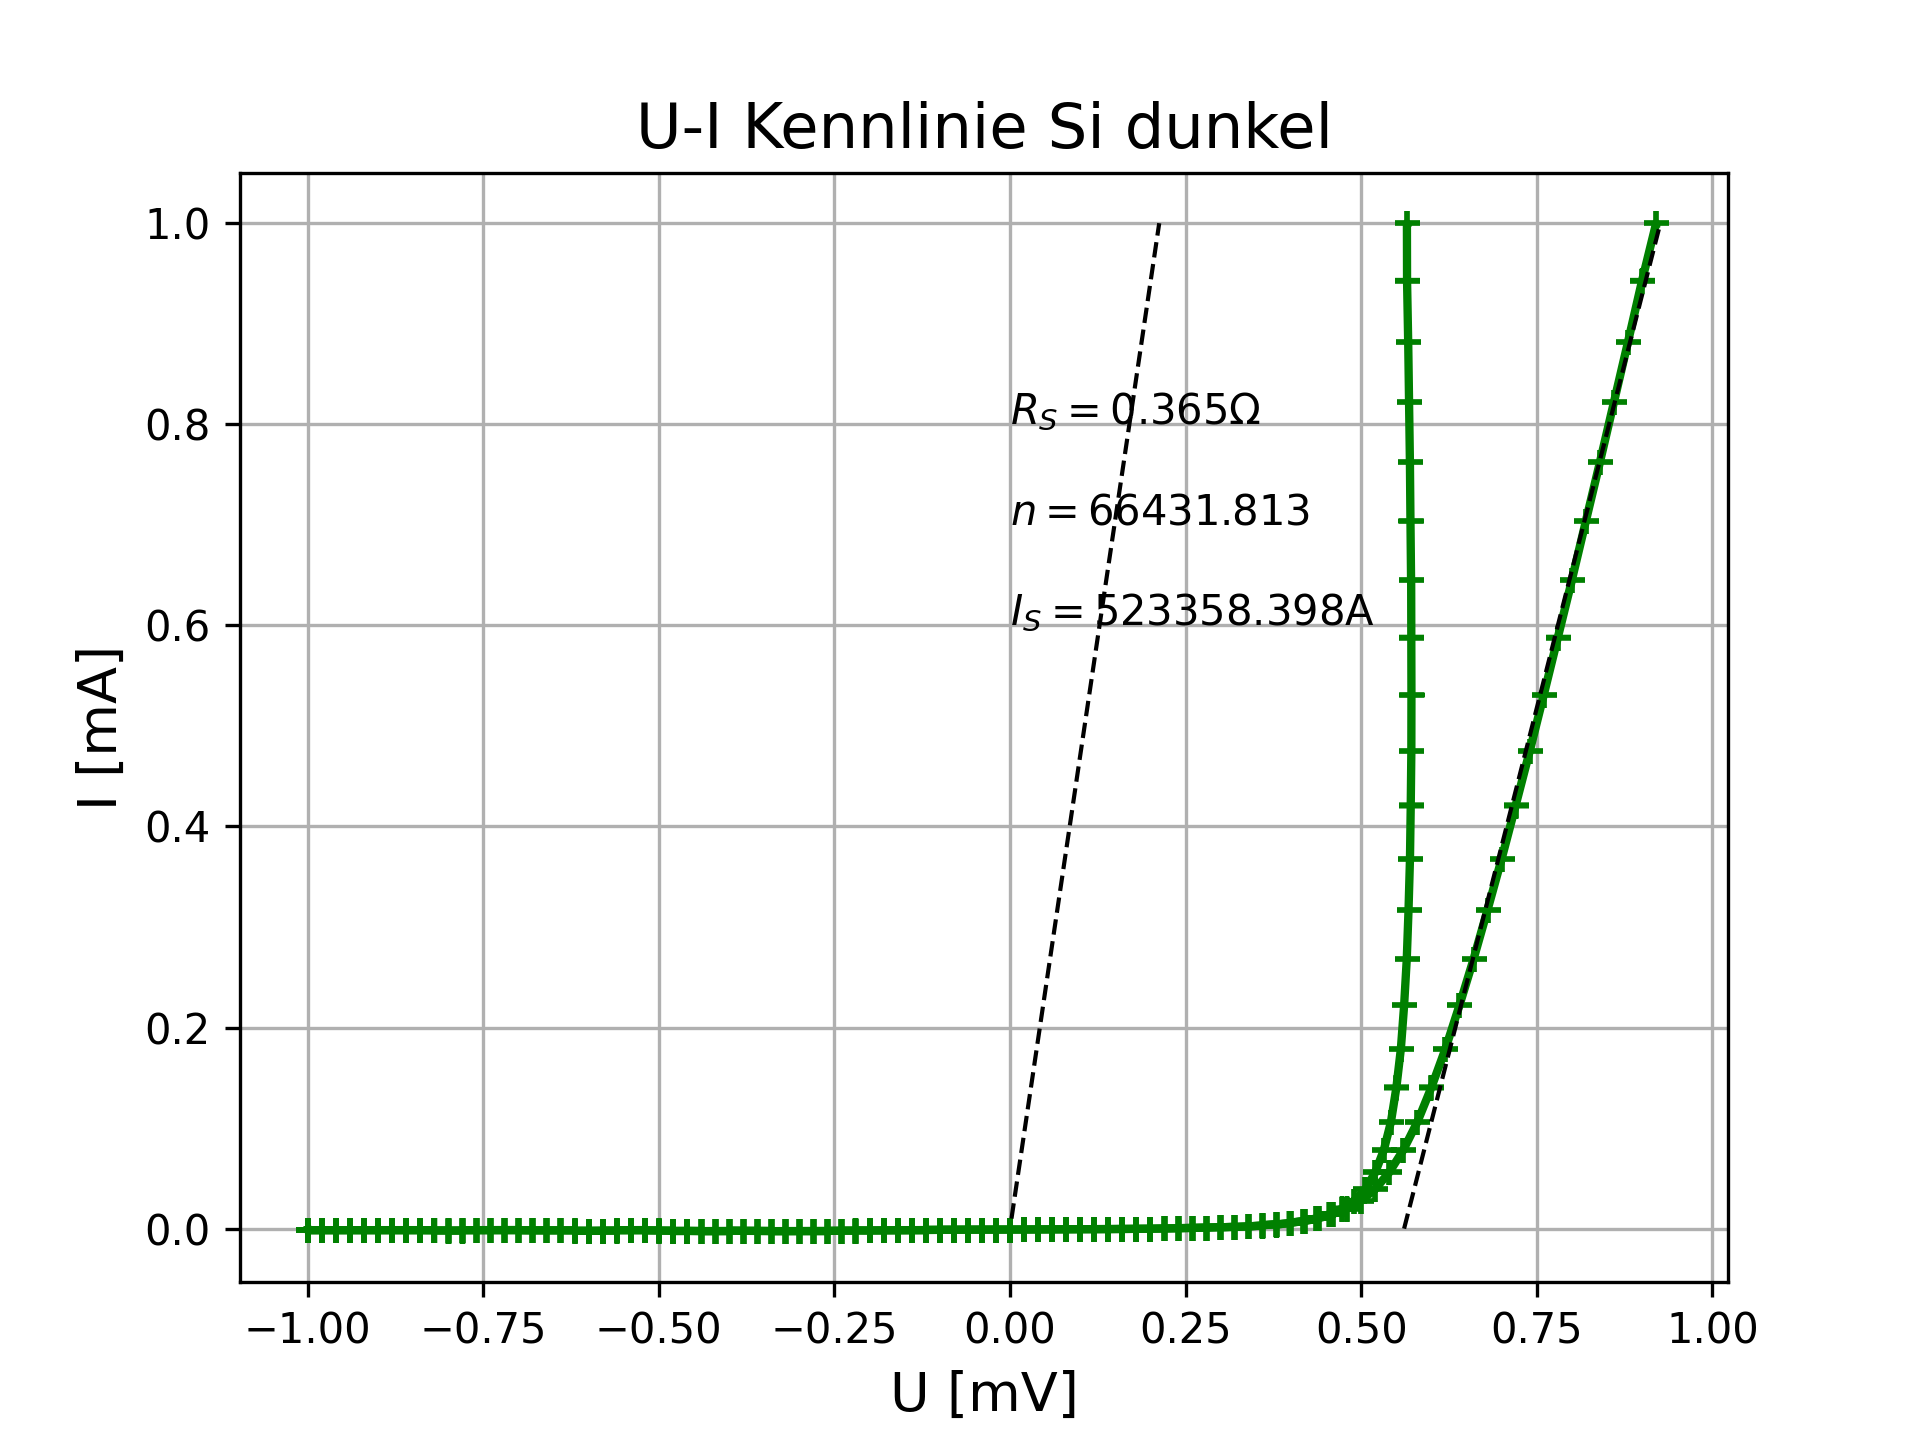
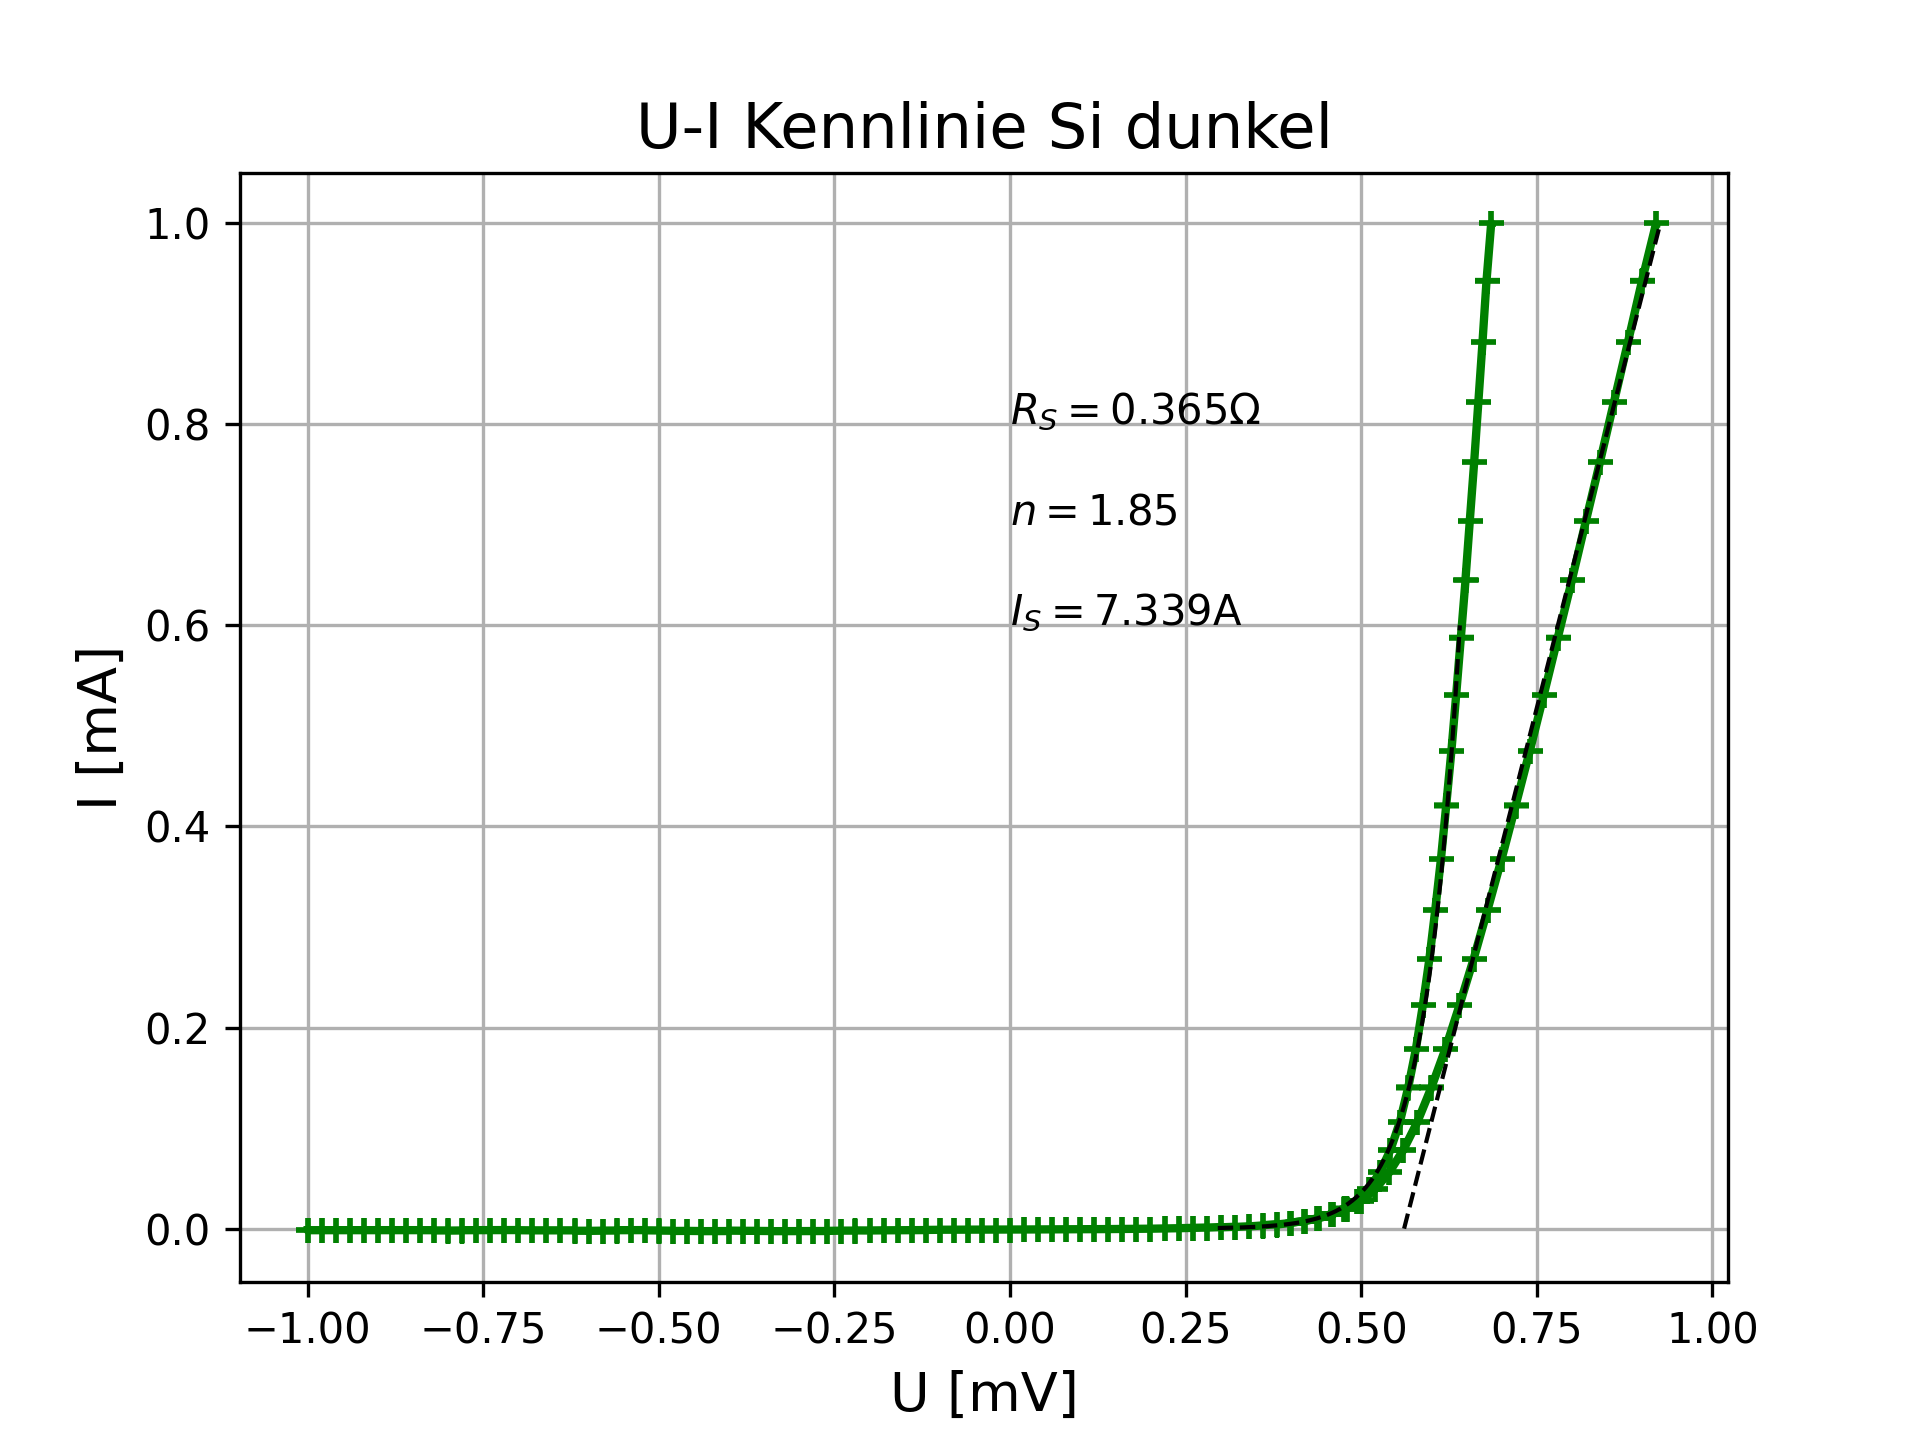
Das ist mein Code.

diff --git a/Auswertung.py b/Auswertung.py
@@ -76,25 +76,33 @@ params_lin, params_lin_cov = optimize.curve_fit(U_lin, a_si_du["current / A"][80
 print("Serienwiderstand R_s:    ", params_lin[0] )
 
 R = params_lin[0]
-R = R-0.01          #-0.01 damit der ln nicht negariv wird
+R = R-0.13     #-0.11 damit der ln nicht negariv wird, variation
 
-def U(I, I_s, n):
-    return ((n*constants.k*T)/constants.e) * np.log((I+I_s)/I_s)    #Funktion für U' = U - RI
+def U(I, n, I_s, x):
+    return ((n*constants.k*T)/constants.e) * np.log(I/I_s) + x   #Funktion für U' = U - RI
 
-params, params_cov = optimize.curve_fit(U, a_si_du["voltage / V"][0:970]-R*a_si_du["current / A"][0:970],\
- a_si_du["current / A"][0:970]) #Der Fit funktioniert nicht
-
+params, params_cov = optimize.curve_fit(U, a_si_du["current / A"][700:900], a_si_du["voltage / V"][700:900]-R*a_si_du["current / A"][700:900])
 
 #Plot
-plt.errorbar(a_si_du["voltage / V"][0:970], a_si_du["current / A"][0:970], xerr = 0, yerr = 0,\
-            linewidth = 2, color = "green", capsize=3)
-plt.errorbar(U_lin(np.linspace(0, 1, 1000), params_lin[0], params_lin[1]), np.linspace(0, 1, 1000), \
- lw=1, fmt = "--", c = "black")
-plt.errorbar(U(np.linspace(0.01, 1, 1000), params[0], params[1]), np.linspace(0.01, 1, 1000), \
-  lw=1, fmt = "--", c = "black")
+'''
 
-plt.errorbar(a_si_du["voltage / V"][0:970]-R*a_si_du["current / A"][0:970], a_si_du["current / A"][0:970], xerr = 0, yerr = 0,\
-            linewidth = 2, color = "green", capsize=3)      #Plot U'
+plt.errorbar(U(np.linspace(0.01, 0.6, 1000), params[0], params[1]), np.linspace(0.01, 0.6, 1000), \
+  lw=1, fmt = "--", c = "black")     #Fit Log
+
+plt.errorbar(a_si_du["voltage / V"][700:900]-R*a_si_du["current / A"][700:900], a_si_du["current / A"][700:900], xerr = 0, yerr = 0,\
+            linewidth = 2, color = "green", capsize=3)      #Plot U'    '''
+
+plt.errorbar(a_si_du["voltage / V"][0:970], a_si_du["current / A"][0:970], xerr = 0, yerr = 0,\
+            linewidth = 2, color = "green", capsize=3)  #Normaler Plot
+
+plt.errorbar(U_lin(np.linspace(0, 1, 1000), params_lin[0], params_lin[1]), np.linspace(0, 1, 1000), \
+ lw=1, fmt = "--", c = "black")   #Linerarer Fit
+
+plt.errorbar(a_si_du["voltage / V"][700:970]-R*a_si_du["current / A"][700:970], a_si_du["current / A"][700:970], xerr = 0, yerr = 0,\
+            linewidth = 2, color = "green", capsize=3)
+
+plt.errorbar(U(np.linspace(0, 0.6, 1000), params[0], params[1], params[2]), np.linspace(0, 0.6, 1000), \
+  lw=1, fmt = "--", c = "black")
 
 plt.title('U-I Kennlinie Si dunkel', fontsize = 15)
 plt.text( 0, 0.8, "$R_S = $" + str(round(params_lin[0], 3)) + "$\Omega$")   #R_s
